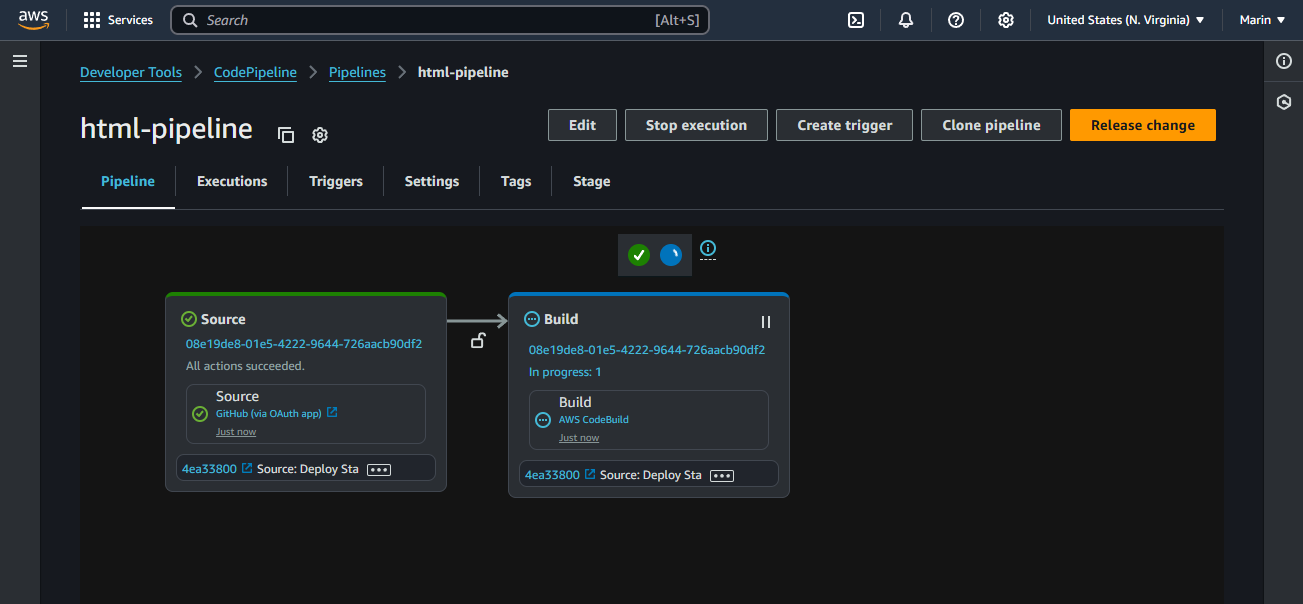
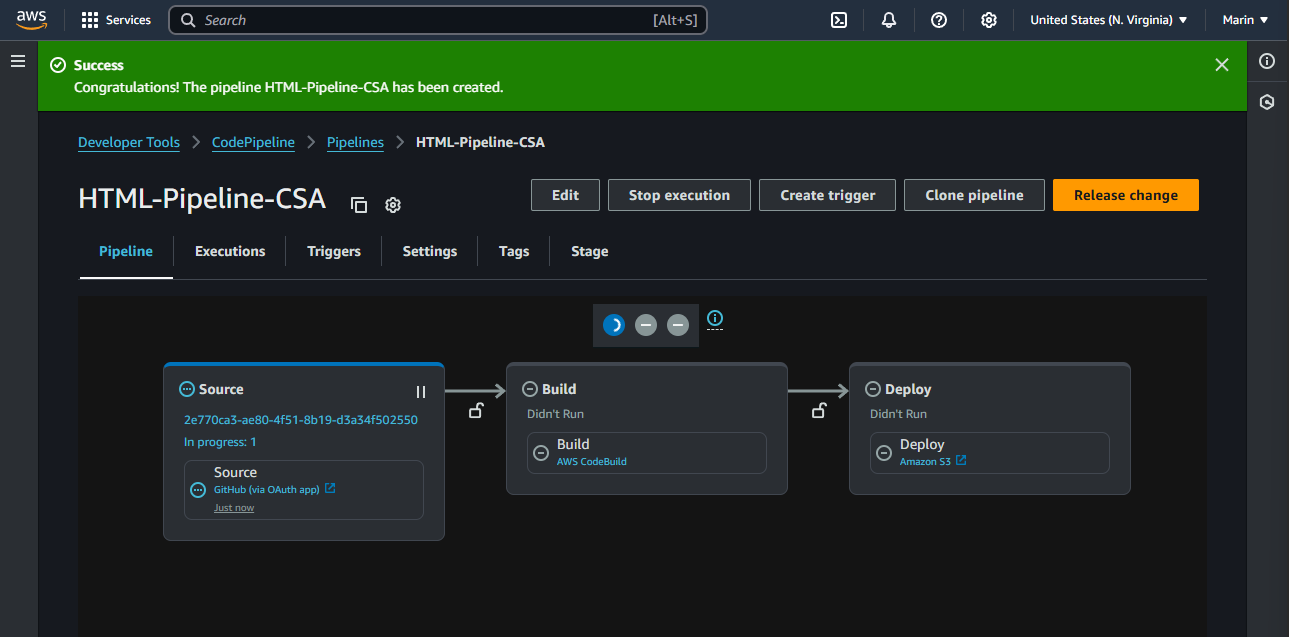
Change

diff --git a/README.md b/README.md
@@ -143,10 +143,17 @@ Now with the Build Project integrated we can coninue leaving everything in here 
 Now we will be `skipping` the Test Stage because our simple static webpage has noting else to be tested, so go ahead and click `Skip Test Stage`
 ![Setup Add Test](doc/images/pipeline-s5.png)
 
-On the Add Deploy Stage screen we will also `skip` it because on our Build stage we setup that our code will be transfered to S3, so the 'deploy' already happens there.
+On the Add Deploy Stage screen we will setting up the deployment rules of our artifacts that were setup for creation in the 'build' stage, in this case basically is going to select our index.html and thats all.
 
-In case we had done that here we would have selected Build Artifact defined by Source and the Provider to be an Amazon S3, this due to how this pipeline operates, basically copying files from one site to another.
+Here we select `AmazonS3` as the deploy provider, make sure the region is in the same where your pipe line is.
 
+In the Input Artifact section select `Build artifact`, this is telling that S3 is going to store whatever comes from build, and from build we specify that only our index.html is going through.
+
+Then select a bucket based on the name.
+
+And last select the `S3 Key` which is a file or folder where the project is going to be put, in this case just add `/` to deploy the files at the root of the bucket.
+
+Then click `Next`
 ![Setup Deploy](doc/images/pipeline-s6.png)
 
 In the last step we just need to make sure all of the settings are correctly set, here you can also review what we have done and if anything need changes you can go back in the step process.
